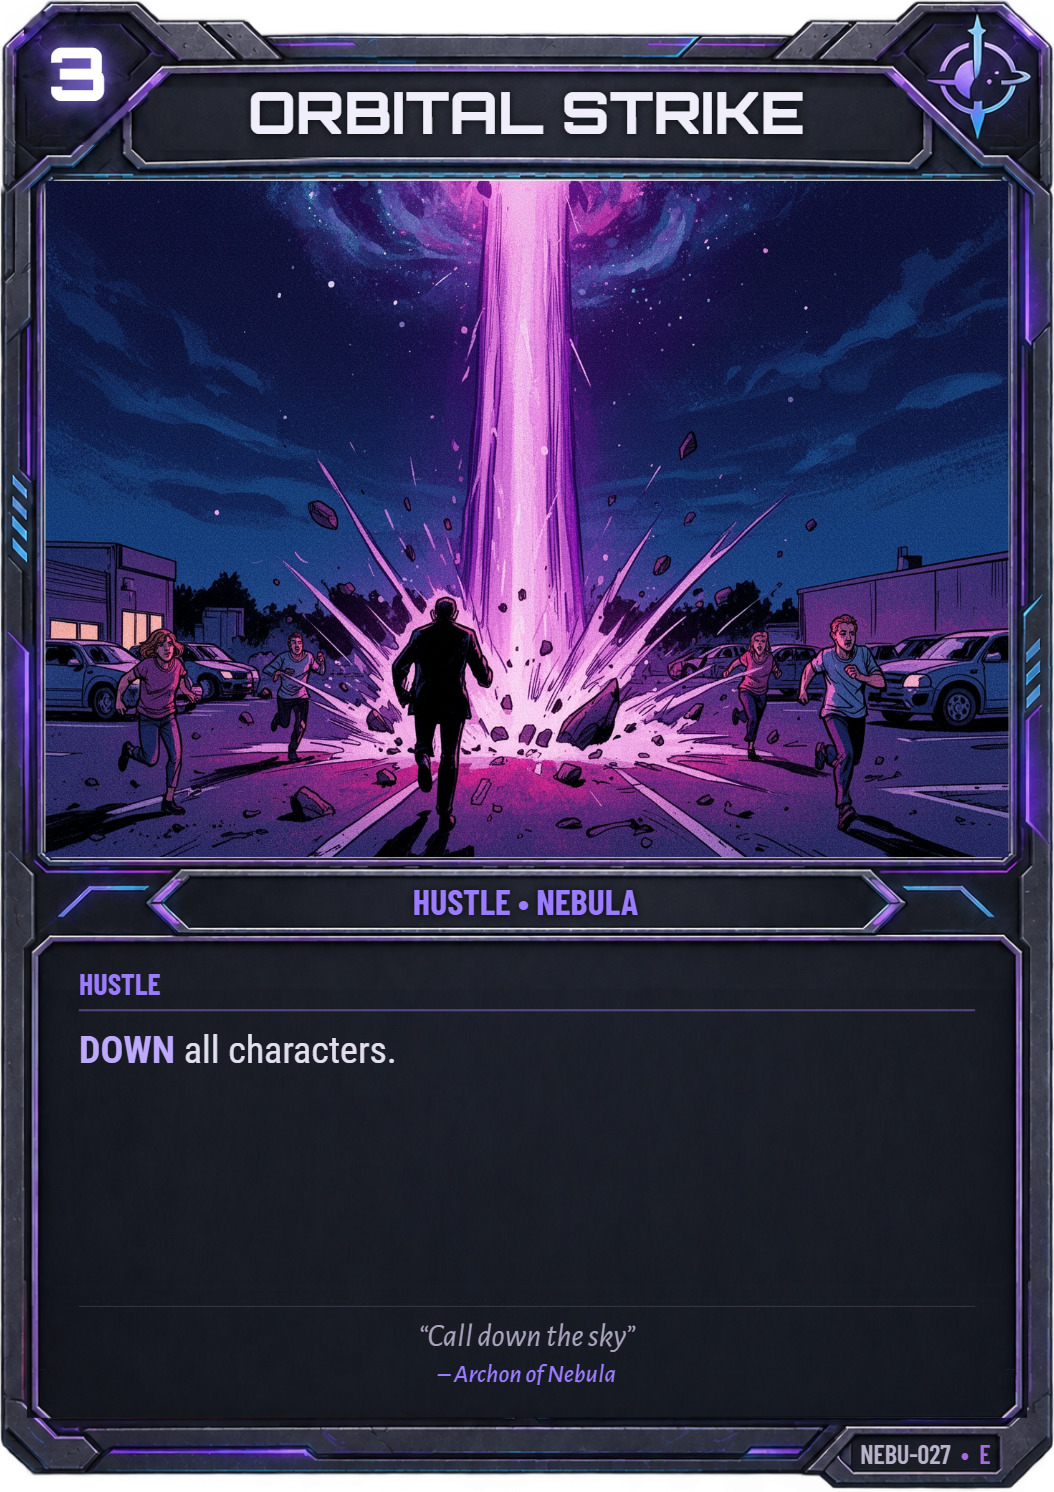
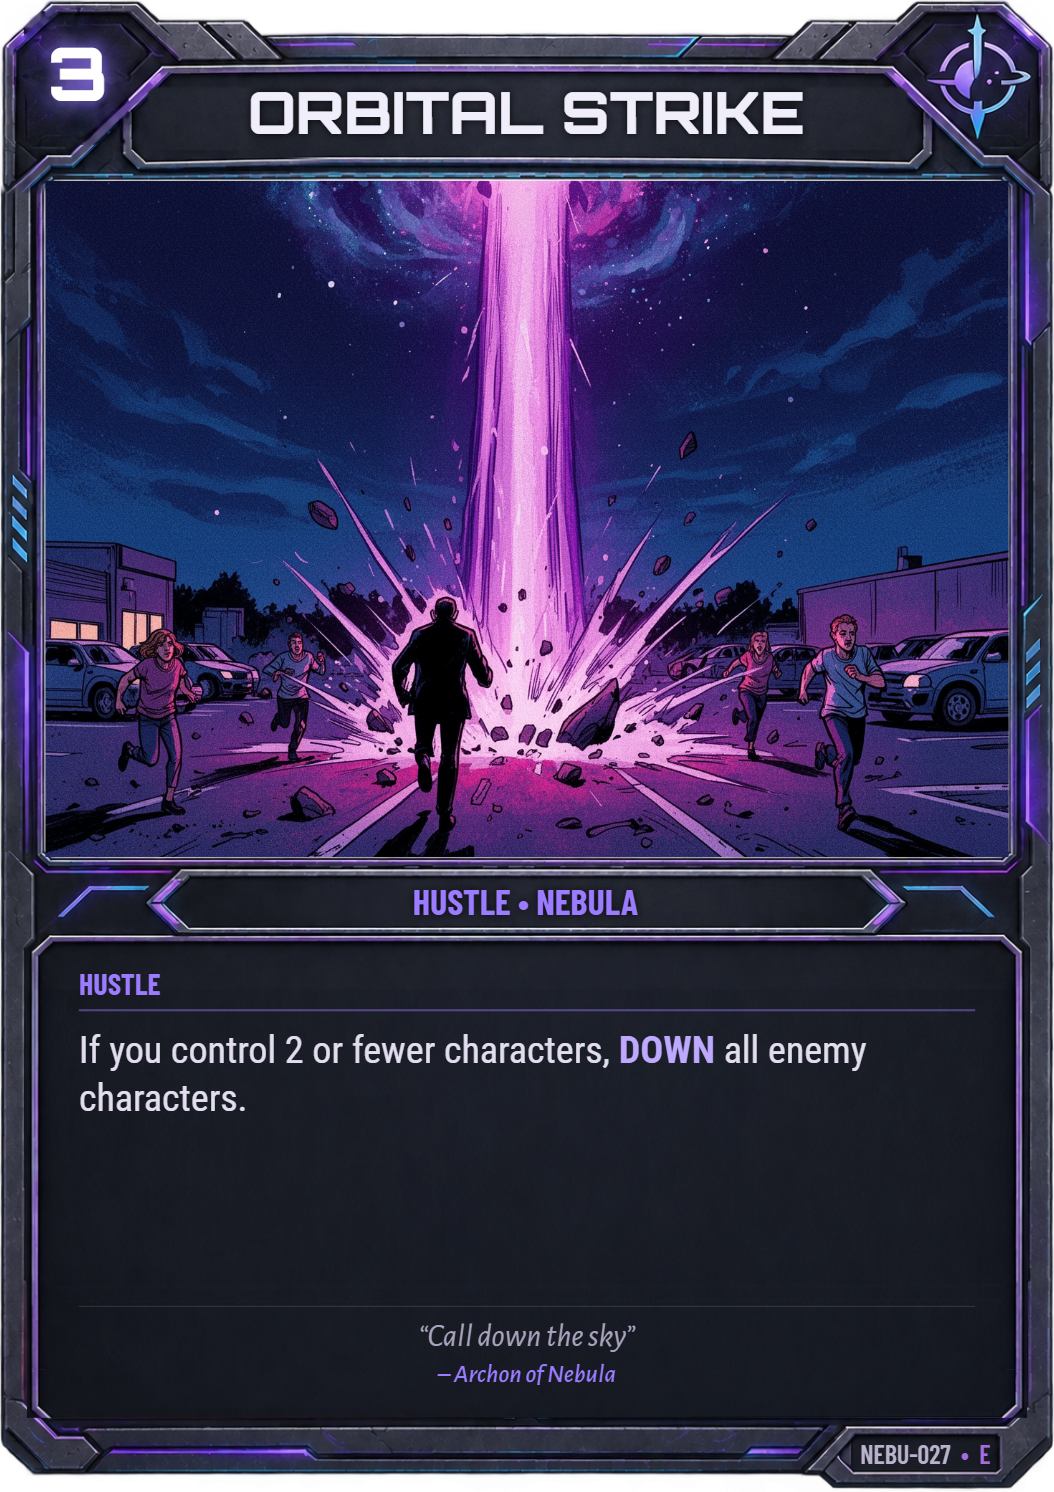
Balance: Rhodes KOs when the opponent controls 3+ characters; Orbital Strike Downs all enemies if you control 2 or fewer

Changed region(s): [[0.0607, 0.6783, 0.8197, 0.7399]]

diff --git a/shared/cards_forge.js b/shared/cards_forge.js
@@ -556,12 +556,15 @@ export const FORGE_CARDS = {
         "art_url": "card_nebu_027",
         "code": "NEBU-027",
         "flavourText": "Call down the sky",
-        "effectText": "DOWN all characters.",
+        "effectText": "If you control 2 or fewer characters, DOWN all enemy characters.",
         "effects": [
             {
                 "when": "deploy",
                 "do": "down",
-                "target": "all"
+                "target": "enemies",
+                "if": "allies_le",
+                "n": 2,
+                "if_clan": ""
             }
         ],
         "clanName": "Nebula",
@@ -2373,7 +2376,7 @@ export const FORGE_CARDS = {
         "art_url": "card_mili_037",
         "code": "MILI-037",
         "flavourText": "Step aside. Or get rolled.",
-        "effectText": "When deployed: This card gains SHIELD.\nACTIVATE (once per turn, this card can't attack this turn): If your opponent controls 4 or more characters, KO one enemy character.",
+        "effectText": "When deployed: This card gains SHIELD.\nACTIVATE (once per turn, this card can't attack this turn): If your opponent controls 3 or more characters, KO one enemy character.",
         "effects": [
             {
                 "when": "deploy",
@@ -2386,7 +2389,7 @@ export const FORGE_CARDS = {
                 "target": "enemy",
                 "if": "enemies_ge",
                 "cost": "exhaust",
-                "n": 4
+                "n": 3
             }
         ],
         "clanName": "Militia",
